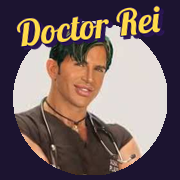
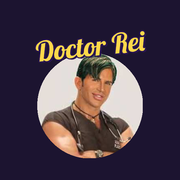
Add files via upload

diff --git a/index.html b/index.html
@@ -1,8 +1,24 @@
 <!doctype html><html lang="es"><head><meta charset="utf-8"><meta name="viewport" content="width=device-width,initial-scale=1">
 <link href="https://fonts.googleapis.com/css2?family=Lobster&display=swap" rel="stylesheet"><title>Mazo de estudio</title><link rel="manifest" href="manifest.json"><link rel="apple-touch-icon" href="icon-180.png"><link rel="icon" href="icon-192.png">
 <meta name="theme-color" content="#1c1430"><meta name="apple-mobile-web-app-capable" content="yes"><meta name="apple-mobile-web-app-title" content="Mazo de estudio">
-<style>body{margin:0;min-height:100vh;display:flex;flex-direction:column;align-items:center;justify-content:center;gap:18px;background:#1c1430;color:#f1eee6;font:16px system-ui,sans-serif;text-align:center;padding:16px;box-sizing:border-box}img{width:140px;height:140px;border-radius:50%}h1{margin:0;font-size:26px;color:#ffd166}a.b{display:block;width:100%;max-width:340px;padding:16px;border-radius:16px;background:#2d6a4f;color:#fff;font-weight:700;font-size:18px;text-decoration:none}a.s{background:#3d3757;font-size:15px}small{color:#a9a3b8}.wmt{font-family:Lobster,"Brush Script MT",cursive;font-size:56px;color:#ffd84a;-webkit-text-stroke:2px #2a1650;text-shadow:3px 3px 0 #2a1650;transform:rotate(-6deg);letter-spacing:1px;margin-top:-30px}</style></head>
-<body><img src="icon-512.png" alt=""><div class="wmt">Doctor Rei</div><h1>Mazo de estudio</h1>
-<a class="b" id="go" href="https://script.google.com/macros/s/AKfycbwdZ4I3V_RpnAvIQ0BQ-20xQordBOhQi4AZGO3jZM0Q69O2HsUX6yc0us8qKSXuKN308g/exec">▶ Entrar a estudiar</a>
-
+<style>body{margin:0;min-height:100vh;display:flex;flex-direction:column;align-items:center;justify-content:center;gap:18px;background:#1c1430;color:#f1eee6;font:16px system-ui,sans-serif;text-align:center;padding:16px;box-sizing:border-box}img{width:140px;height:140px;border-radius:50%}h1{margin:0;font-size:26px;color:#ffd166}a.b{display:block;width:100%;max-width:340px;padding:16px;border-radius:16px;background:#2d6a4f;color:#fff;font-weight:700;font-size:18px;text-decoration:none}a.s{background:#3d3757;font-size:15px}small{color:#a9a3b8}.wmt{font-family:Lobster,"Brush Script MT",cursive;font-size:56px;color:#ffd84a;-webkit-text-stroke:2px #2a1650;text-shadow:3px 3px 0 #2a1650;transform:rotate(-6deg);letter-spacing:1px;margin-top:-30px}#ins{display:none;width:100%;max-width:340px;background:#2a2342;border:2px solid #ffd166;border-radius:16px;padding:14px;box-sizing:border-box;text-align:left;line-height:1.5}#ins b{color:#ffd166}#ins button{width:100%;padding:14px;border:0;border-radius:12px;background:#ffd166;color:#1c1430;font-weight:700;font-size:17px;margin-top:8px}</style></head>
+<body><img src="doctor.jpg" alt=""><div class="wmt">Doctor Rei</div><h1>Mazo de estudio</h1>
+<a class="b" id="go" href="https://script.google.com/macros/s/AKfycbwdZ4I3V_RpnAvIQ0BQ-20xQordBOhQi4AZGO3jZM0Q69O2HsUX6yc0us8qKSXuKN308g/exec?pwa=1">▶ Entrar a estudiar</a>
+<div id="ins"></div>
+<script>
+(function(){
+var ua=navigator.userAgent,ios=/iPhone|iPad|iPod/.test(ua)||(navigator.platform==='MacIntel'&&navigator.maxTouchPoints>1),and=/Android/i.test(ua);
+var st=matchMedia('(display-mode: standalone)').matches||navigator.standalone;
+var box=document.getElementById('ins');if(st||!(ios||and))return;
+box.style.display='block';
+if(ios){
+ var safari=!/CriOS|FxiOS|EdgiOS|GSA/.test(ua);
+ box.innerHTML='<b>📲 Instalar en tu iPhone / iPad</b><br>'+(safari?'1. Tocá el botón <b>Compartir</b> (el cuadrado con la flecha ⬆, abajo o arriba).<br>2. Elegí <b>“Agregar a inicio”</b> (bajá en la lista si no lo ves).<br>3. Tocá <b>Agregar</b>. Listo: aparece el ícono del doctor.':'Abrí esta página en <b>Safari</b> (en iPhone solo Safari permite instalarla): copiá el link y pegalo en Safari, después Compartir ⬆ → <b>“Agregar a inicio”</b>.');
+}else{
+ box.innerHTML='<b>📲 Instalar en tu Android</b><br><span id="am">Tocá el menú <b>⋮</b> del navegador (arriba a la derecha) → <b>“Instalar app”</b> o <b>“Agregar a la pantalla principal”</b>.</span>';
+ window.addEventListener('beforeinstallprompt',function(e){e.preventDefault();var b=document.createElement('button');b.textContent='📲 Instalar ahora';b.onclick=function(){e.prompt();e.userChoice.then(function(){b.remove()})};box.appendChild(b);document.getElementById('am').textContent='Tocá el botón para instalarla:';});
+}
+if(/install=1/.test(location.search))setTimeout(function(){box.scrollIntoView({behavior:'smooth',block:'center'})},300);
+})();
+</script>
 <script>if(navigator.serviceWorker)navigator.serviceWorker.register('sw.js');</script></body></html>
